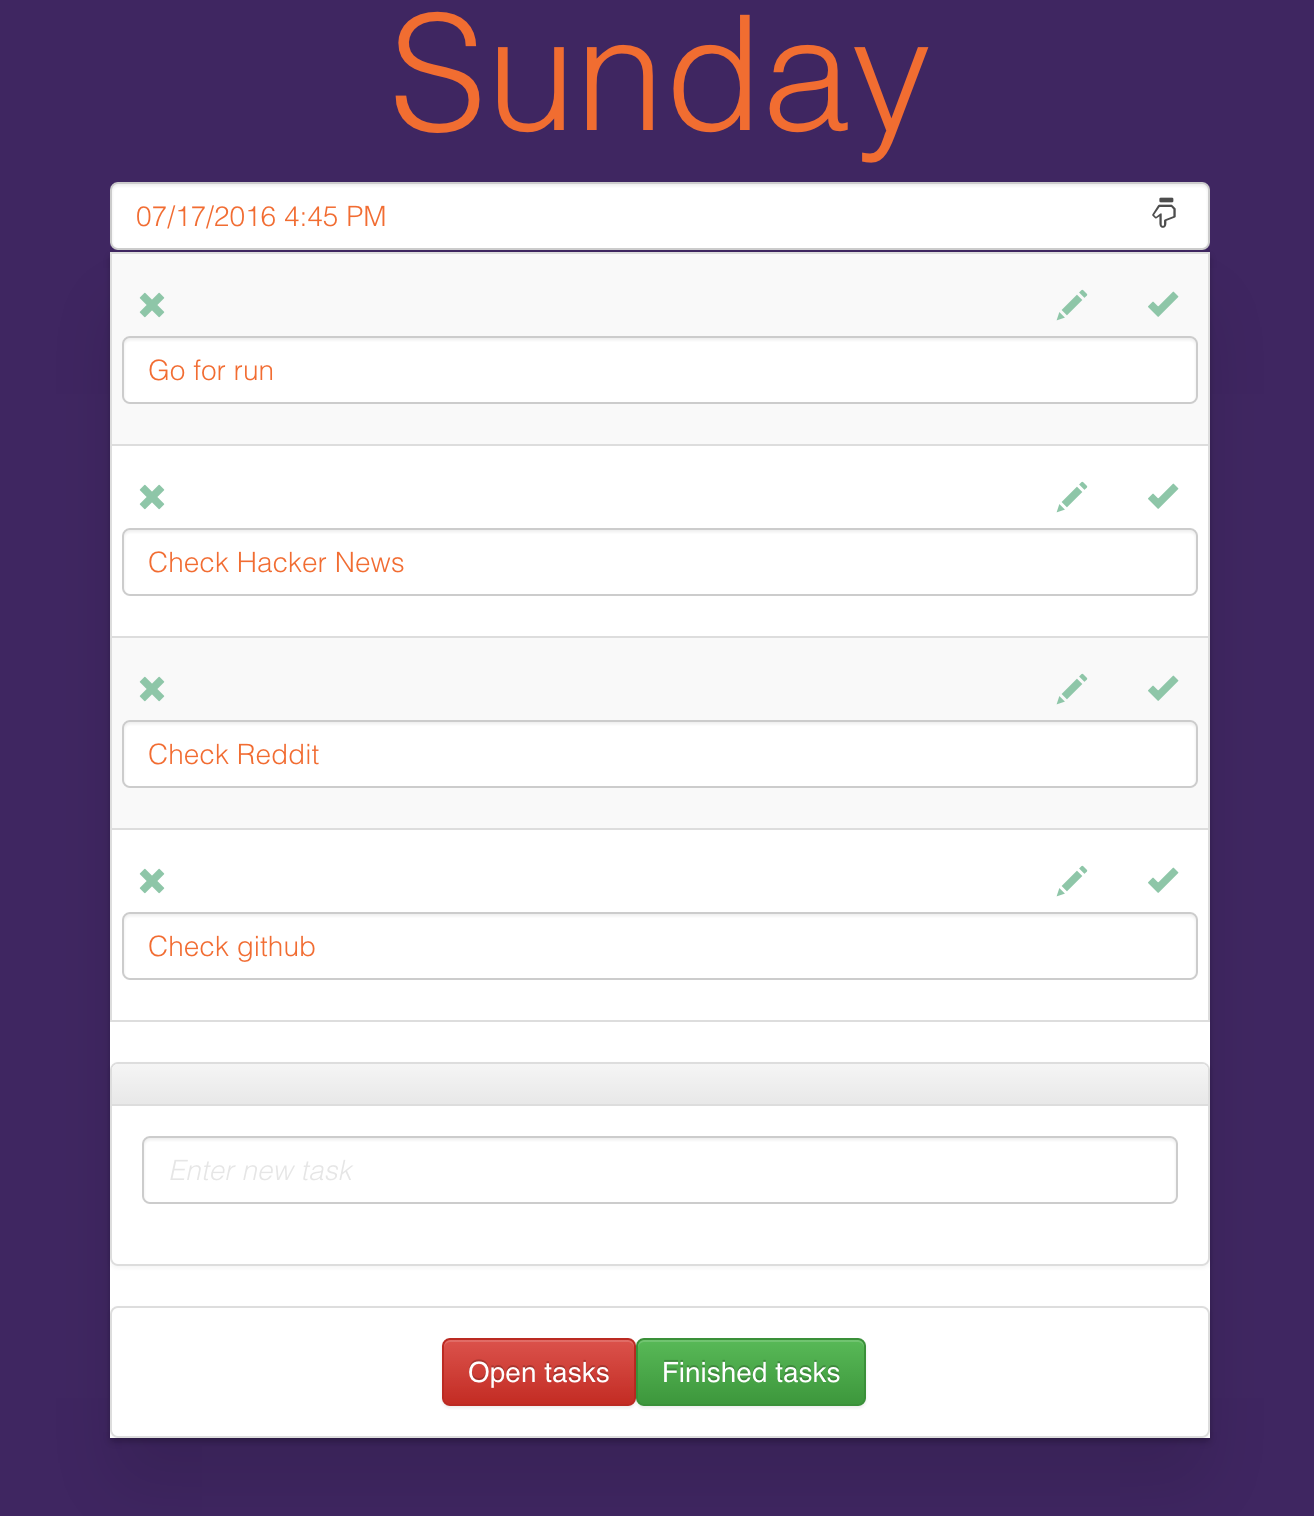
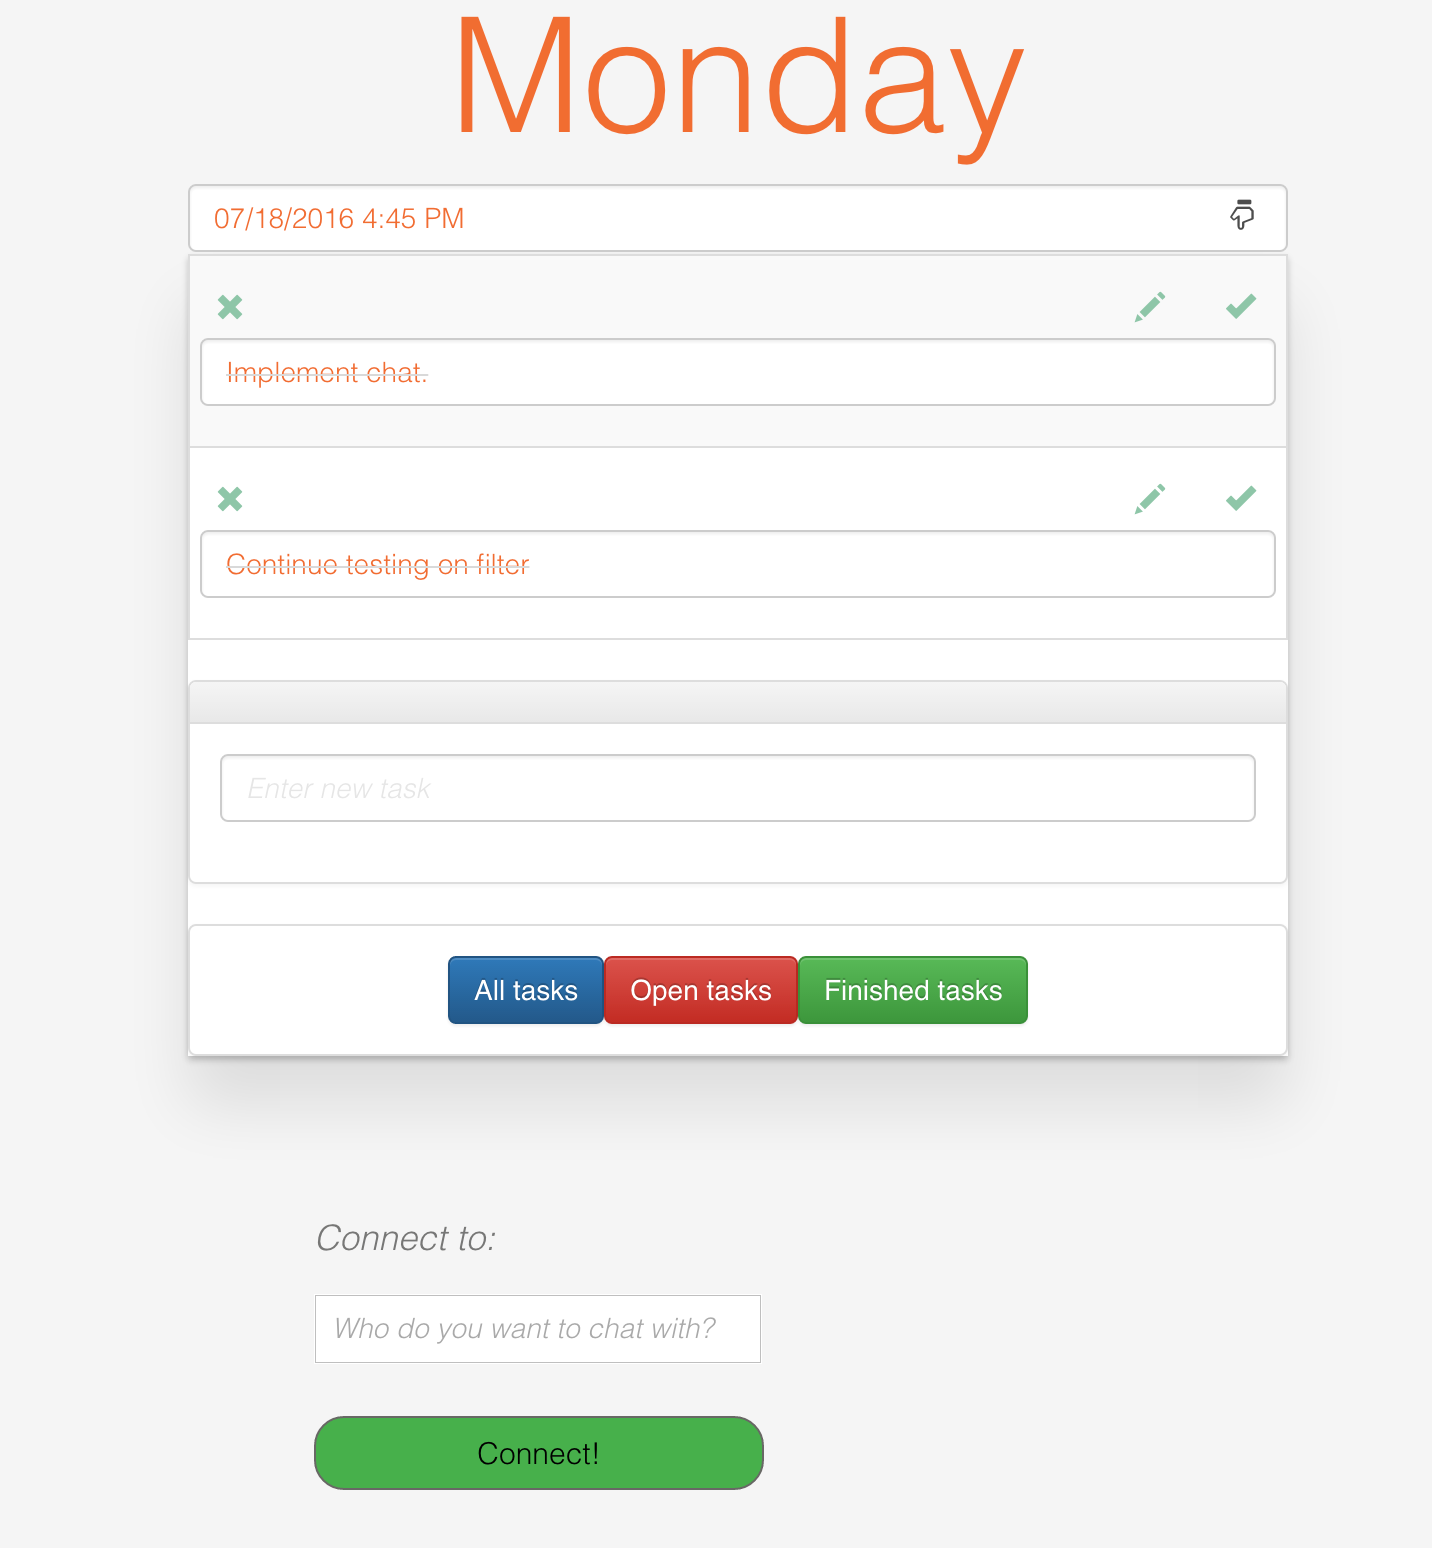
complete video chat plus UI improvements

diff --git a/src/App.js b/src/App.js
@@ -34,9 +34,11 @@ ReactDOM.render(
       <Redirect from="/" to="/todos" />
       <Route path='/about' component={ About } />
       <Route path='/home' component={ Home } />
-      <Route path='/chat' component={ VideoChat } />
+
       <Route path="*" component={NoMatch} />
     </Router>
   ),
   document.getElementById('main')
 );
+
+// <Route path='/chat' component={ VideoChat } />
